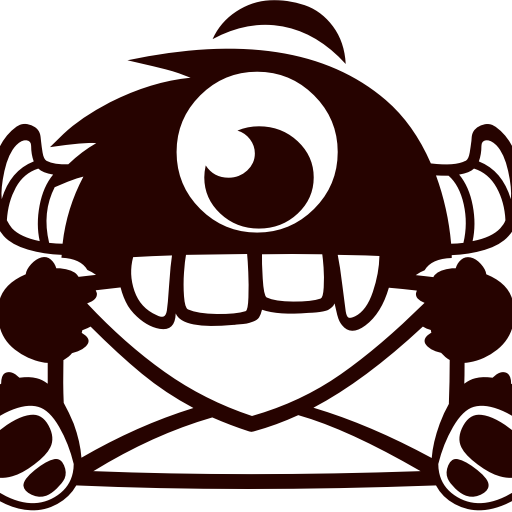
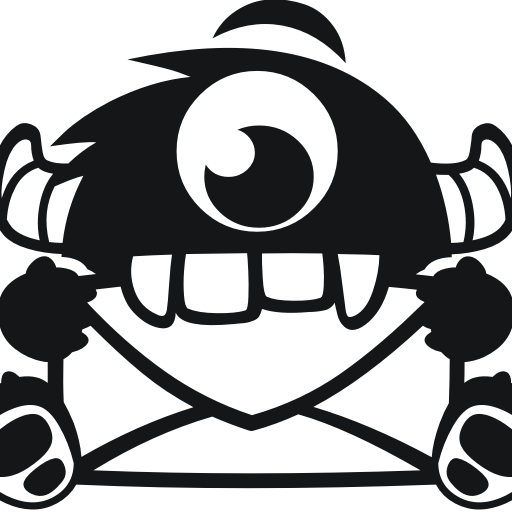
added comment row and some css on profile page and added media query for smaller screens

diff --git a/app/assets/stylesheets/master.scss b/app/assets/stylesheets/master.scss
@@ -4,7 +4,7 @@
   .booyah-box {
     -moz-box-shadow: 1px 1px 2px 0 #d0d0d0;
     -webkit-box-shadow: 1px 1px 2px 0 #d0d0d0;
-    box-shadow: 1px 1px 2px 0 #260300;
+    box-shadow: 1px 1px 2px 0 #151617;
     background: rgba(252, 252, 252, 0.753);
     border: 1px solid #ccc;
     border-color: #e4e4e4 #bebebd #bebebd #e4e4e4;
@@ -12,14 +12,21 @@
     margin-bottom: 15px;
     font-family: 'introheadr-base';
     font-size: 20px;
-    color: #260300
+    color: #151617
   }
 
   .user_av_col img {
     border-style: solid;
     border-width: 15px;
-    border-color: #260300;
+    border-color: #151617;
     border-radius: 5%;
+  }
+
+  @media only screen and (max-width: 600px) {
+    .user_av_col img {
+      max-width: 150px;
+      border-width: 5px;
+    }
   }
 
   .btn {
@@ -54,6 +61,17 @@
     font-family: 'introscriptr-h2base';
   }
 
+  .dash_title {
+    font-family: 'introscriptr-h2base';
+    font-size: 50px;
+    text-decoration: underline;
+  }
+
+  .dash_sec {
+    font-family: 'introscriptr-h2base';
+
+  }
+
   h1,
   h2,
   h3,
@@ -76,7 +94,7 @@
   body {
     background: image_url('green.jpg');
     background-size: cover;
-    color: #260300;
+    color: #151617;
     background-repeat: repeat;
     height: 100%;
   }
@@ -169,14 +187,14 @@
   }
 
   .list_title {
-    color: #260300;
+    color: #151617;
     font-family: 'introrustg-base2line';
     font-size: 40px;
 
   }
 
   .pagination {
-    color: #260300;
+    color: #151617;
     font-family: 'introheadr-base';
     font-size: 20px;
     font-weight: bold;
@@ -218,15 +236,15 @@
   }
 
   blockquote {
-    background: #f9f9f9;
-    border-left: 10px solid #ccc;
+    background: #FDFDFD;
+    border-left: 10px solid #292B2C;
     margin: 1.5em 10px;
     padding: 0.5em 10px;
     quotes: "\201C""\201D""\2018""\2019";
   }
 
   blockquote:before {
-    color: #ccc;
+    color: #292B2C;
     content: open-quote;
     font-size: 4em;
     line-height: 0.1em;

diff --git a/app/controllers/users_controller.rb b/app/controllers/users_controller.rb
@@ -1,7 +1,9 @@
+# frozen_string_literal: true
+
 class UsersController < ApplicationController
-    def show
-      @user = User.find(params[:id])
-      @user_5_star = @user.comments.where(rating: '5_stars').count
-      @comment_count = @user.comments.count
+  def show
+    @user = User.find(params[:id])
+    @user_5_star = @user.comments.where(rating: '5_stars').count
+    @comment_count = @user.comments.count
   end
 end
